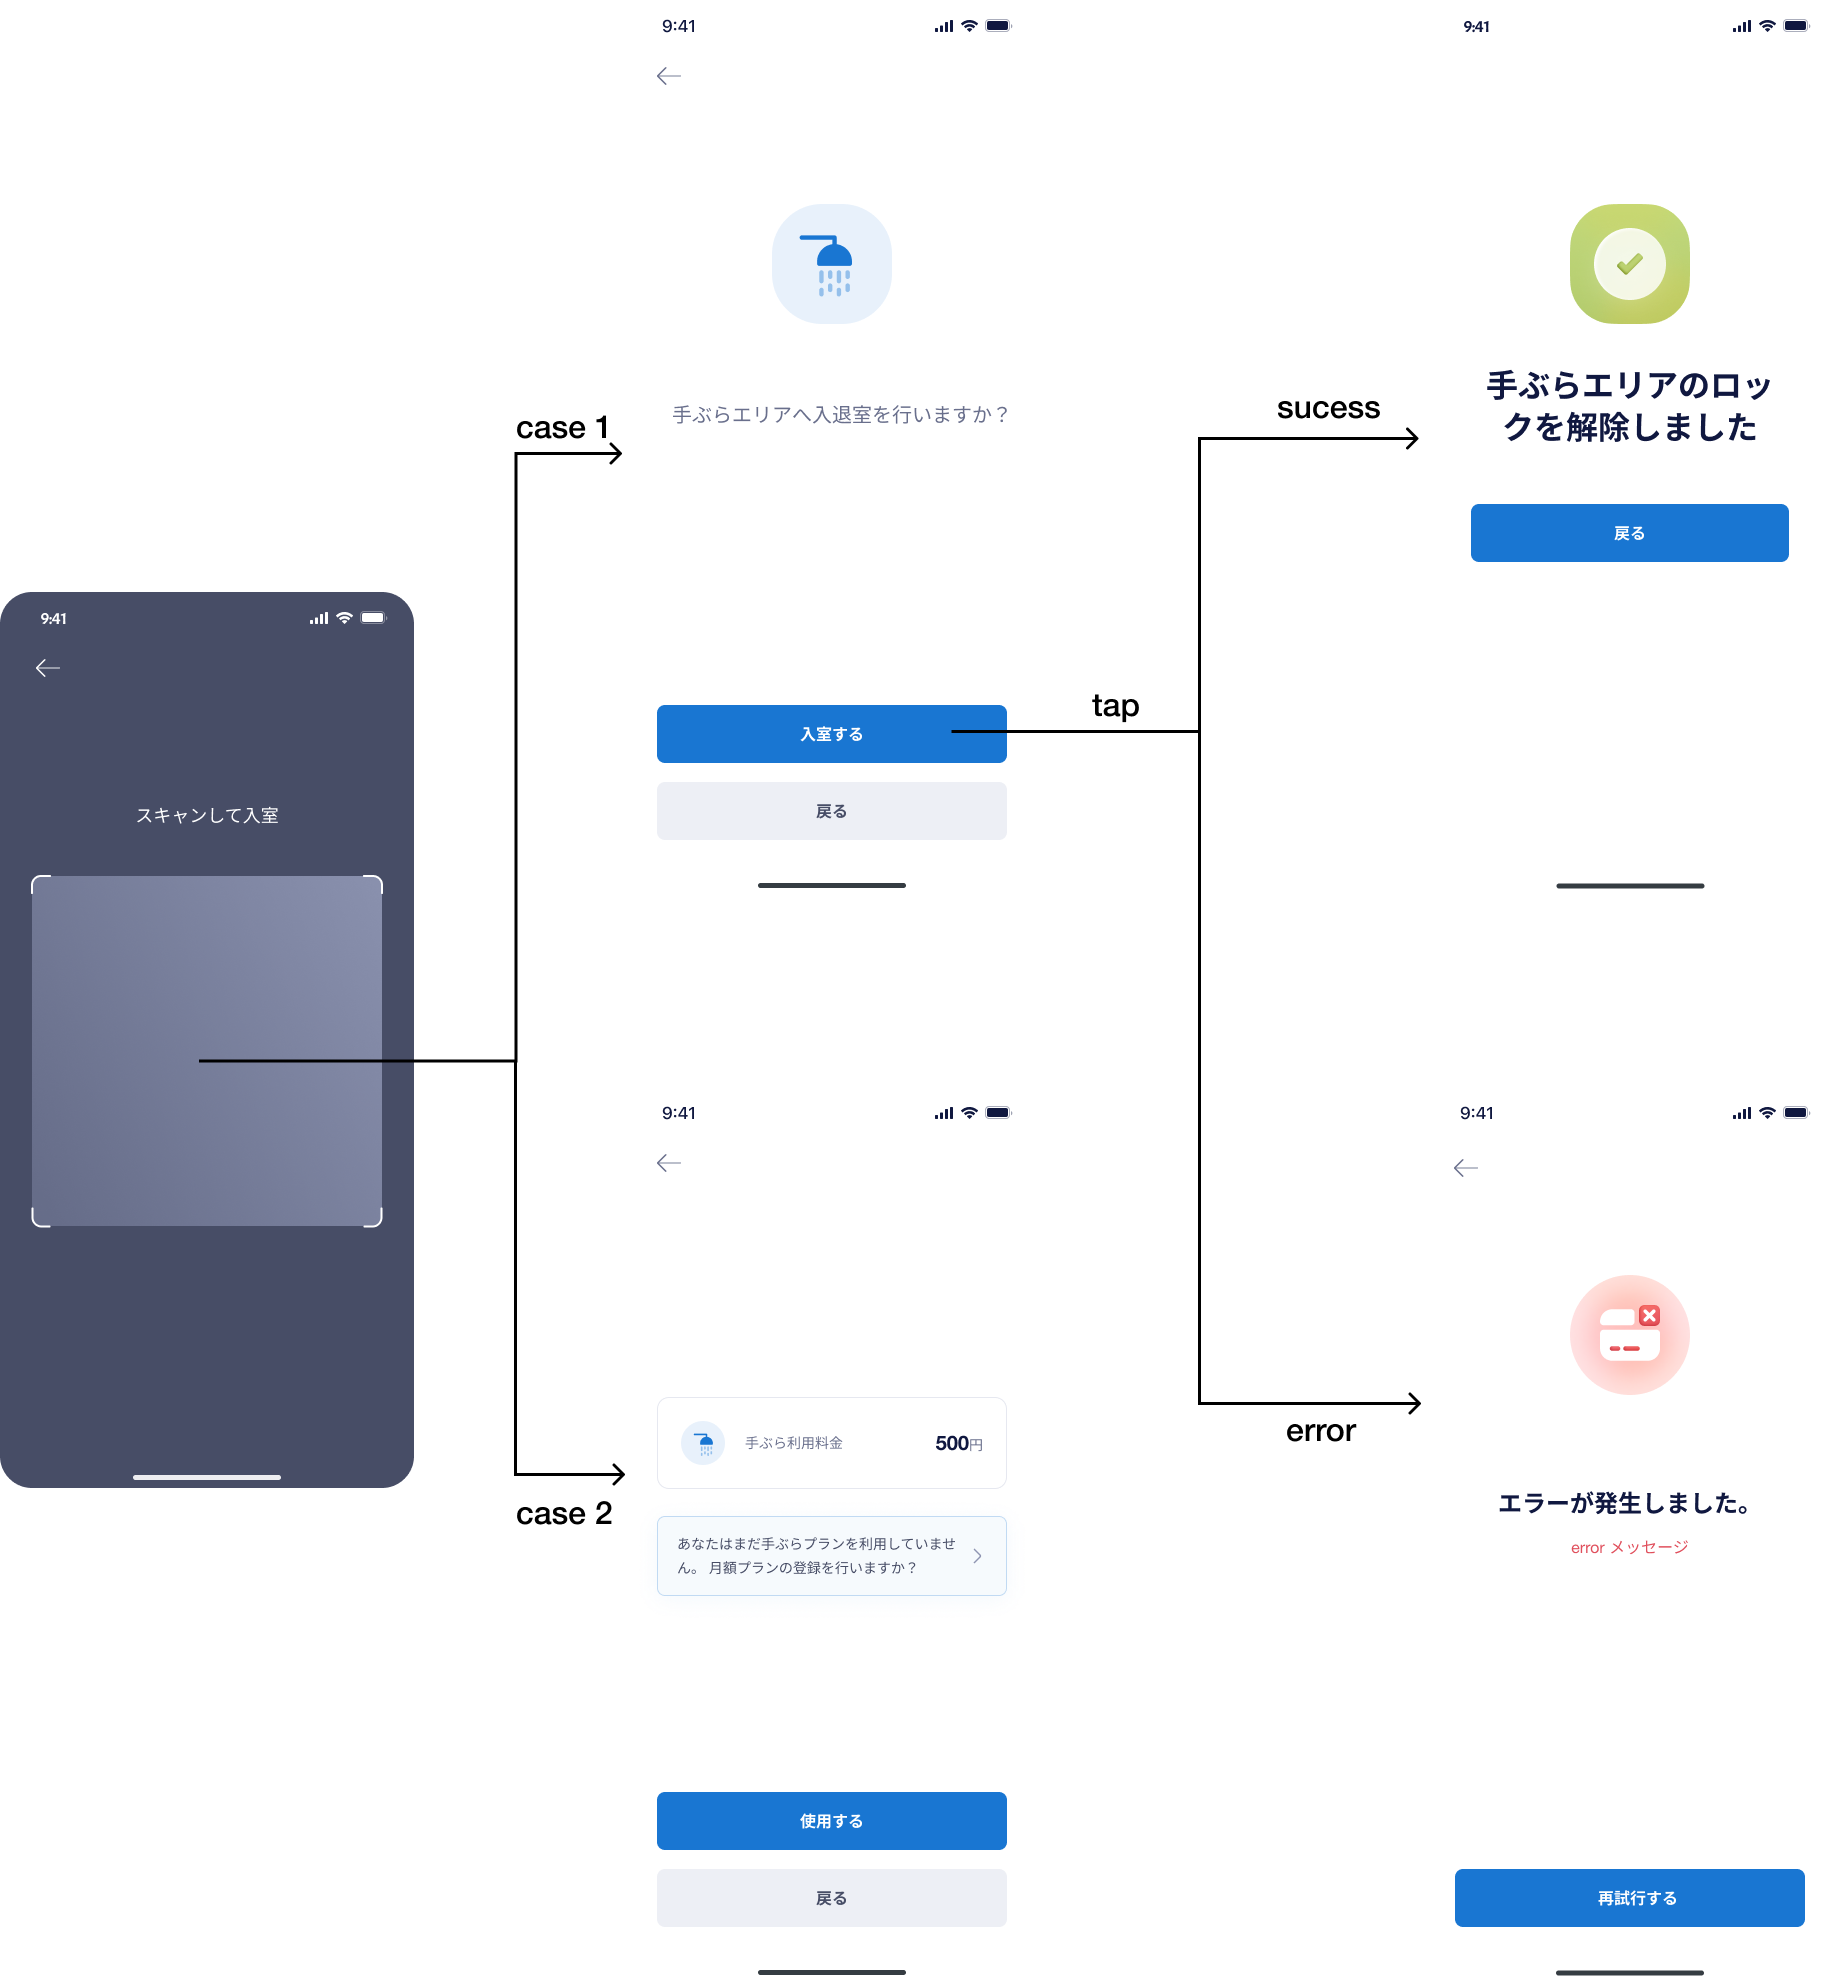
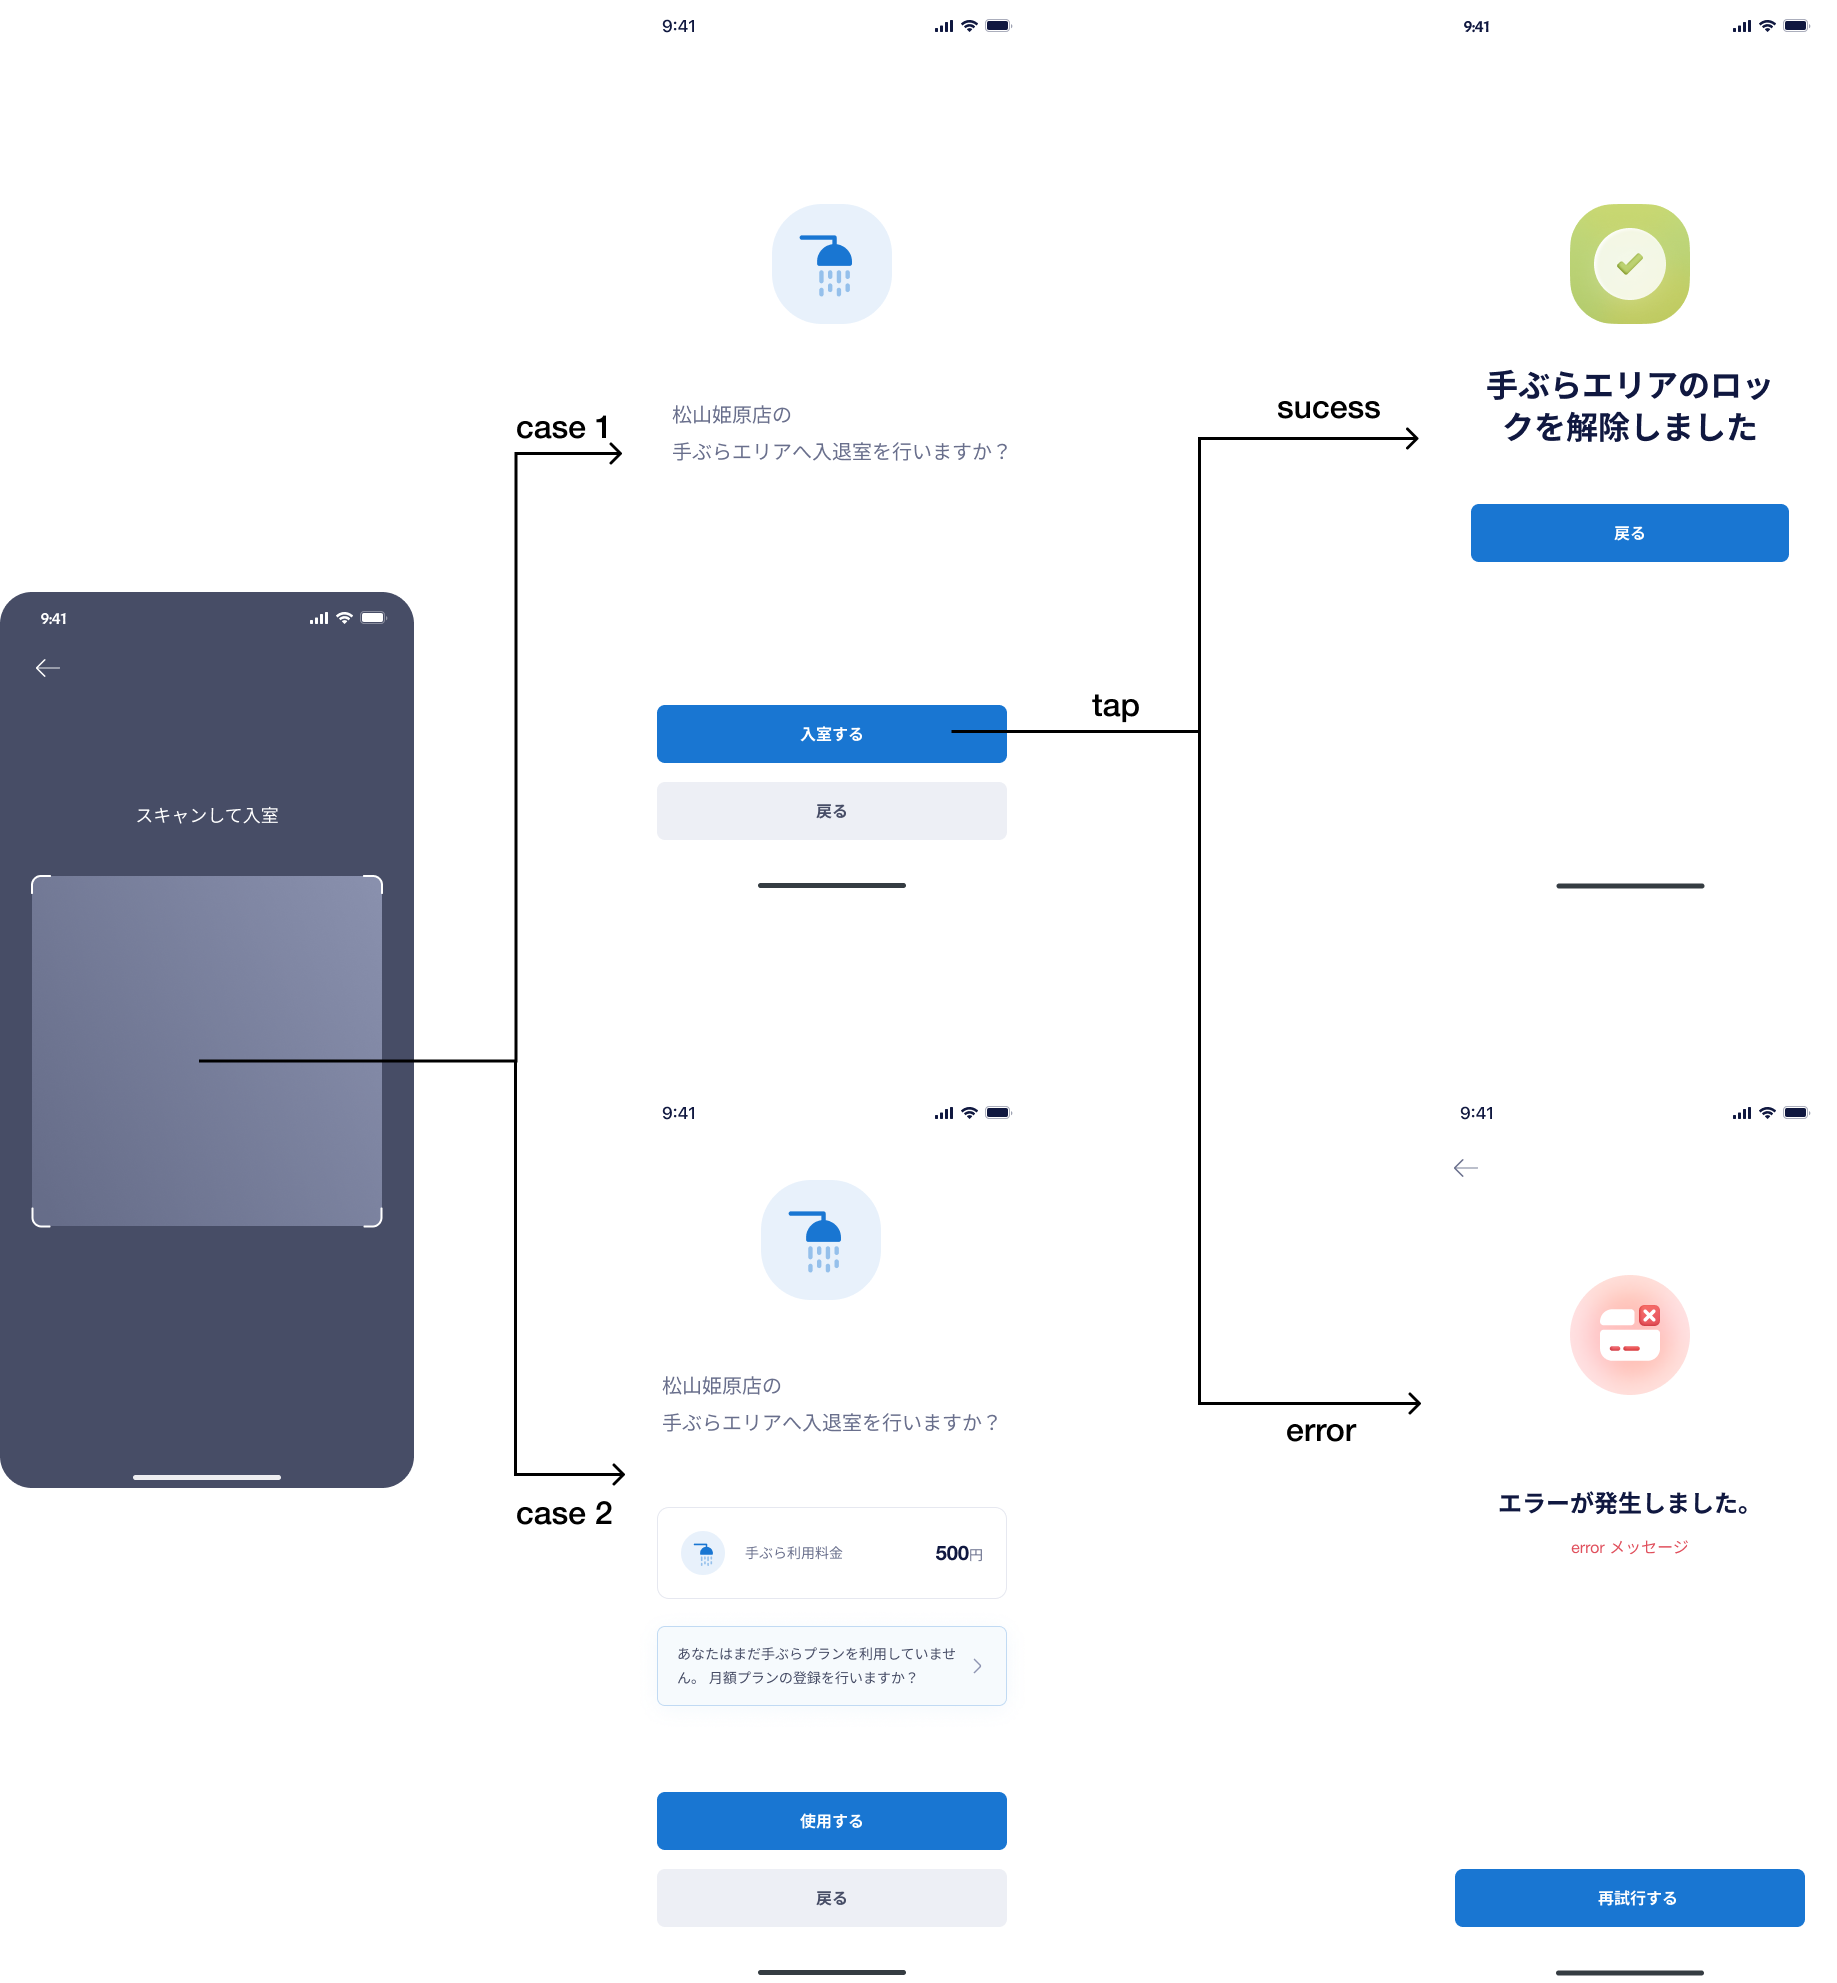
update tên phòng gym ở trang checkin

diff --git a/104-vn.md b/104-vn.md
@@ -127,10 +127,16 @@
 
 ##### Xác nhận thông tin vào cửa　`Block nền màu xanh dương`
 
-- Case １・３・４：Hiển thị như design
-- Case ２：
+- Case 1- API data：
+  - `松山姫原店`：Tên phòng gym
+- Case ２- API data：
+  - `松山姫原店`：Tên phòng gym
   - `12:32`：Thời gian chage tiền và check-in lần đầu
   - `16:32`：Thời gian cuối cùng có thể mở cửa vào free
+- Case ３- API data：
+  - `松山姫原店`：Tên phòng gym
+- Case 4- API data：
+  - `松山姫原店`：Tên phòng gym
 
 ##### Thông tin mức tiền tối đa `Block nền màu xanh lá`
 
@@ -220,6 +226,7 @@
 
 - Chỉ có ở case 2
 - API data
+  - `松山姫原店`：Tên phòng gym
   - `500`： Số tiền charge nếu sử dụng. Trong trường hợp user đã charge thành công trước đó, nếu trong vòng 4h thì hiển thị là `0`
 
 ##### Change plan `Button`
@@ -254,6 +261,11 @@
 
 ### Định nghĩa các thành phần có Action
 
+##### Xác nhận thông tin mơ khoá　`Block`
+
+- API data：
+  - `松山姫原店`：Tên phòng gym
+
 ##### 使用する `Button`
 
 - Chỉ có ở case 1
@@ -275,6 +287,11 @@
 
 ### Định nghĩa các thành phần có Action
 
+##### Xác nhận thông tin mơ khoá　`Block`
+
+- API data：
+  - `松山姫原店`：Tên phòng gym
+  
 ##### 使用する `Button`
 
 - Khi tap nút này thì sẽ xử lí các logic theo thứ tự như sau:   

diff --git a/104-jp.md b/104-jp.md
@@ -127,10 +127,16 @@
 
 ##### 入室確認情報　`青い背景区画`
 
-- ケース１・３・４：デーザイン通りに表示する
-- ケース２：
+- ケース1- API データ：
+  - `松山姫原店`：店舗名
+- ケース２- API データ：
+  - `松山姫原店`：店舗名
   - `12:32`：支払いして、初回入室時間
   - `16:32`：無料で入室できる最終時間
+- ケース3- API データ：
+  - `松山姫原店`：店舗名
+- ケース4- API データ：
+  - `松山姫原店`：店舗名
 
 ##### 上限金額情報　`緑背景区画`
 
